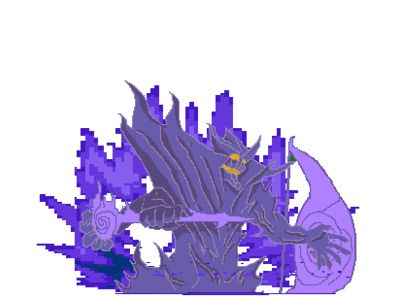
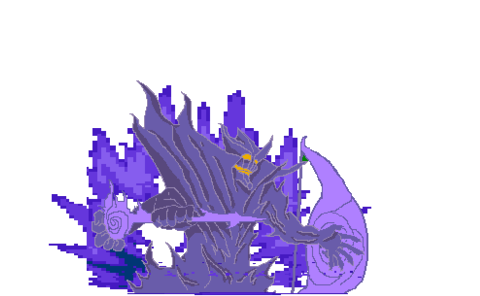
佐助搞定

Changed region(s): [[0.0907, 0.2736, 0.9068, 1.0]]

diff --git a/fight/saske_style.py b/fight/saske_style.py
@@ -25,56 +25,82 @@ class SaskeStyle(Style):
     def saske_status_to_up_ti(self):
         self.change_to_status('向上一脚')
         
-    def __init__(self, sprite_group):
+    def __init__(self, sprite_group, situation_flag = 1):
         self.sprite_group = sprite_group
         self.character = {}
-        saske_image_url = ['saske/倒在地上', 'saske/挥刀',
-                            'saske/挥两刀', 'saske/挥拳',
-                            'saske/向上一脚', 'saske/idle',
-                            'saske/run','saske/后仰', 'saske/站起来',
-                            'saske/开篇挥手']
+        if situation_flag == 1:
+            saske_image_url = ['saske/倒在地上', 'saske/挥刀',
+                                'saske/挥两刀', 'saske/挥拳',
+                                'saske/向上一脚', 'saske/idle',
+                                'saske/run','saske/后仰', 'saske/站起来',
+                                'saske/开篇挥手']
+        elif situation_flag == 2:
+            saske_image_url = ['saske/须左']
+        elif situation_flag == 3:
+            saske_image_url = ['saske/须左的箭']
+        elif situation_flag == 4:
+            saske_image_url = ['saske/写轮眼']
         for i in range(len(saske_image_url)):
             print('saske_image_url[i]:' + saske_image_url[i])
             self.add_sprite(saske_image_url[i], need_flip = True)
             
-        self.character["saske/run"].append_update_function(self.update_run) 
-        self.character["saske/倒在地上"].append_update_function(self.update_fall_down) 
-        self.character["saske/倒在地上"].append_end_update_function(self.saske_status_to_qilai) 
-        self.character["saske/倒在地上"].set_frame_rate(8)
+        if situation_flag == 1:
+            self.character["saske/run"].append_update_function(self.update_run) 
+            self.character["saske/倒在地上"].append_update_function(self.update_fall_down) 
+            self.character["saske/倒在地上"].append_end_update_function(self.saske_status_to_qilai) 
+            self.character["saske/倒在地上"].set_frame_rate(8)
+            
+            self.character["saske/站起来"].append_end_update_function(self.saske_status_to_idle)
+            self.character["saske/站起来"].set_frame_rate(8)
+            
+            self.character["saske/挥刀"].append_end_update_function(self.saske_status_to_huiquan)
+            self.character["saske/挥刀"].set_frame_rate(8)
+            self.character["saske/挥拳"].append_end_update_function(self.saske_status_to_huiliangdao)
+            self.character["saske/挥拳"].set_frame_rate(8)
+            self.character["saske/挥两刀"].append_end_update_function(self.saske_status_to_up_ti)
+            self.character["saske/挥两刀"].set_frame_rate(8)
+            self.character["saske/向上一脚"].append_end_update_function(self.saske_status_to_idle)
+            self.character["saske/向上一脚"].set_frame_rate(8)
         
-        self.character["saske/站起来"].append_end_update_function(self.saske_status_to_idle)
-        self.character["saske/站起来"].set_frame_rate(8)
+            #这个后仰的是一直存在于sprite_group里面的，所以以后你要切换人物，一定要把后仰删掉，而不是单单删除current_sprite
+            self.character["saske/后仰"].set_image_update_bounce(False)
+            self.sprite_group.add(self.character["saske/后仰"])   #self.character["saske/后仰"].hidden = False  如果这个后仰设置为True则会一直卡在第一张图片
+            self.character["saske/后仰"].set_top_padding(1000)
+            self.character["saske/后仰"].append_end_update_function(self.hou_yang_end_update_handle)
+            self.character["saske/后仰"].set_frame_rate(8)
         
-        self.character["saske/挥刀"].append_end_update_function(self.saske_status_to_huiquan)
-        self.character["saske/挥刀"].set_frame_rate(8)
-        self.character["saske/挥拳"].append_end_update_function(self.saske_status_to_huiliangdao)
-        self.character["saske/挥拳"].set_frame_rate(8)
-        self.character["saske/挥两刀"].append_end_update_function(self.saske_status_to_up_ti)
-        self.character["saske/挥两刀"].set_frame_rate(8)
-        self.character["saske/向上一脚"].append_end_update_function(self.saske_status_to_idle)
-        self.character["saske/向上一脚"].set_frame_rate(8)
+            #self.sprite_group.add(self.character["saske/idle"])
+            self.current_sprite = self.character["saske/idle"]
+            self.status = 'idle'
         
-        #这个后仰的是一直存在于sprite_group里面的，所以以后你要切换人物，一定要把后仰删掉，而不是单单删除current_sprite
-        self.character["saske/后仰"].set_image_update_bounce(False)
-        self.sprite_group.add(self.character["saske/后仰"])   #self.character["saske/后仰"].hidden = False  如果这个后仰设置为True则会一直卡在第一张图片
-        self.character["saske/后仰"].set_top_padding(1000)
-        self.character["saske/后仰"].append_end_update_function(self.hou_yang_end_update_handle)
-        self.character["saske/后仰"].set_frame_rate(8)
-        
-        #self.sprite_group.add(self.character["saske/idle"])
-        self.current_sprite = self.character["saske/idle"]
-        self.status = 'idle'
+            self.start_left_padding = GameCommonData.WIDTH - 160
+            self.current_sprite.set_left_padding(self.start_left_padding)
+            self.current_sprite.set_top_padding(GameCommonData.character_level)
+            self.character["saske/开篇挥手"].set_frame_rate(8)
+        elif situation_flag == 2:
+            self.sprite_group.add(self.character["saske/须左"])
+            self.current_sprite = self.character["saske/须左"]
+            self.character["saske/须左"].set_frame_rate(5)
+        elif situation_flag == 3:
+            self.sprite_group.add(self.character["saske/须左的箭"])
+            self.current_sprite = self.character["saske/须左的箭"]
+            self.character["saske/须左的箭"].set_frame_rate(8)
+        elif situation_flag == 4:
+            self.sprite_group.add(self.character["saske/写轮眼"])
+            self.current_sprite = self.character["saske/写轮眼"]
+            self.character["saske/写轮眼"].set_frame_rate(8)
+            
         self.current_sprite.hidden = False
-        
-        
-        self.start_left_padding = GameCommonData.WIDTH - 160
-        self.current_sprite.set_left_padding(self.start_left_padding)
-        self.current_sprite.set_top_padding(GameCommonData.character_level)
-        
-
-        self.character["saske/开篇挥手"].set_frame_rate(8)
-        
         self.fall_down_interval = 0
+    
+    def remove_current_sprite(self):
+        self.sprite_group.remove_internal(self.current_sprite)
+    
+    def set_left_padding(self, left_padding):
+        self.current_sprite.set_left_padding(left_padding)
+        
+    def set_top_padding(self, top_padding):
+        self.current_sprite.set_top_padding(top_padding)
     
     def change_to_houyang(self):
         if not self.status == '后仰':

diff --git a/fight/logic_controller.py b/fight/logic_controller.py
@@ -99,15 +99,59 @@ class Controller():
         self.add_fenshen_to_group()
         self.naruto_style.change_to_status('结印')
     #鸣人特效##############################################################################################
+    
+    
+    #佐助特效##############################################################################################
+    def xuzuo_jian_update(self, image_index):
+        left_padding = self.saske_xuzuo_jian.character['saske/须左的箭'].get_left_padding()
+        if left_padding - self.naruto_style.get_left_padding() < 30:
+            self.saske_xuzuo_jian.remove_current_sprite()
+            self.naruto_style.change_to_status('death')
+            self.saske_xuzuo.character['saske/须左'].clear_update_function()
+            #self.saske_xuzuo_jian.character['saske/须左的箭'].image_index = 14
+        else:
+            self.saske_xuzuo_jian.character['saske/须左的箭'].set_left_padding(left_padding - 120)
+    
+    def xuzuo_update(self, image_index):
+        if image_index == 12:
+            self.saske_xuzuo_jian = SaskeStyle(self.sprite_group, situation_flag = 3)
+            self.saske_xuzuo_jian.set_left_padding(self.saske_style.get_left_padding() - 200)
+            self.saske_xuzuo_jian.set_top_padding(self.saske_style.get_top_padding() - 30)
+            self.saske_xuzuo_jian.character['saske/须左的箭'].append_update_function(self.xuzuo_jian_update)
+        elif image_index == 14:
+            self.saske_xuzuo.character['saske/须左'].image_index = 13
             
-    #佐助特效##############################################################################################
     def xu_zuo(self):
-        return
+        self.saske_xielunyan.remove_current_sprite()
+        self.saske_xuzuo = SaskeStyle(self.sprite_group, situation_flag = 2)
+        self.saske_xuzuo.set_left_padding(self.saske_style.get_left_padding())
+        self.saske_xuzuo.set_top_padding(self.saske_style.get_top_padding() + 20)
+        self.saske_xuzuo.character['saske/须左'].append_update_function(self.xuzuo_update)
+        self.saske_xuzuo.character['saske/须左'].append_end_update_function(self.saske_xuzuo.remove_current_sprite)
+        
+    def xie_lun_yan(self):
+        self.saske_xielunyan = SaskeStyle(self.sprite_group, situation_flag = 4)
+        self.saske_xielunyan.set_left_padding(self.saske_style.get_left_padding() - 40)
+        self.saske_xielunyan.set_top_padding(self.saske_style.get_top_padding() - 40)
+        self.saske_xielunyan.character['saske/写轮眼'].append_end_update_function(self.xu_zuo)
     #佐助特效##############################################################################################
+    
+    
+    #我爱罗特效##############################################################################################
+    def songzang(self):
+        print('送葬')
+        
+    def add_wo_ai_luo(self):
+        print('我爱罗')
+    #我爱罗特效##############################################################################################
     
     def handle_key_event(self):
         if self.key_controller.key_m:
             self.chu_fa_fen_shen()
+        elif self.key_controller.key_w:
+            self.xie_lun_yan()
+        elif self.key_controller.key_a:
+            self.add_wo_ai_luo()
         elif self.key_controller.key_s:
             self.change_to_status('naruto/idle')
     
@@ -158,7 +202,7 @@ class Controller():
             #需要用到跳帧的类可以声明一个这样的对象，这样子就可以Sleep(3000)来实现跳帧,里面会记录下来，再次执行到这里不会追加Sleep时间
             #self.saske_style.change_to_status('站起来')
             self.handle_key_event()
-
+            return True
             if self.insert_action_num == 0 and self.sleep(3000):
                 #self.saske_style.change_to_status('站起来')
                 self.naruto_style.change_to_status('run')
@@ -207,8 +251,13 @@ class Controller():
     def start(self):
         if self.naruto_style.status == 'idle' and self.saske_style.status == 'idle':
             if self.sleep(1000):
-                self.naruto_style.change_to_status('色诱之术')
-                self.saske_style.change_to_status('开篇挥手')
+                #self.naruto_style.change_to_status('色诱之术')
+                #self.saske_style.change_to_status('开篇挥手')
+                
+                #手动添加一下，下面这些函数以后是要删除掉的
+                self.naruto_end_update_seyouzhishu()
+                self.saske_end_update_kai_pian_hui_shou()
+                
                 self.naruto_style.append_end_update_seyouzhishu(self.naruto_end_update_seyouzhishu)
                 self.saske_style.append_end_update_kai_pian_hui_shou(self.saske_end_update_kai_pian_hui_shou)
     

diff --git a/fight/cut_pictrue.py b/fight/cut_pictrue.py
@@ -291,4 +291,62 @@ def add_pix_to_white():
         img_temp.convert("RGBA")
         img_temp.save(output_dir + "/" + filename)
         
-add_pix_to_white()
+#add_pix_to_white()
+
+input_dir = prefix_dir + '佐助长大了/添加到白板的图'
+output_dir = prefix_dir + '佐助长大了/对称中心添加图片'
+def cut_off_white_left_padding():
+    #给每一个图片设置一个中心线， 以中心线为基准进行图片刷到白板上的操作，每一张原图都有自己的中心线
+    #列表的前面5个是还没有成型的须左，中轴线保持和第六个须左一致
+    left_padding = [220, 220, 220, 220, 220, 220, 226, 223, 228, 233, 214, 210, 150, 210]
+    
+    img = Image.open(input_dir + "/531.png")   #150是最小的
+    width_img = img.size[0] + 83 # 宽度-最小左边距=最大右边距   最大左边距即为最大左边  两者相加是最终的宽度
+    cropped = img.crop((0, 0, width_img, img.size[1]))
+    for i in range(cropped.size[0]):
+        for j in range(cropped.size[1]):
+            cropped.putpixel((i, j), (255, 255, 255, 255))
+    
+    index_padding = 0
+    for filename in os.listdir(input_dir):
+        img = Image.open(input_dir + "/" + filename)
+        img_temp =  cropped.copy()
+        for i in range(img.size[0]):
+            for j in range(img.size[1]):
+                data = img.getpixel((i, j))
+                if int(img_temp.size[0]/2) - left_padding[index_padding] + i < img_temp.size[0]:
+                    img_temp.putpixel(( int(img_temp.size[0]/2) - left_padding[index_padding] + i, j), (data[0], data[1], data[2], data[3]))
+        index_padding = index_padding + 1
+        img_temp.save(output_dir + "/" + filename)
+
+input_dir = prefix_dir + '佐助长大了/添加到白板的图'
+output_dir = prefix_dir + '佐助长大了/对称中心添加图片'
+def resize_pic():
+    for filename in os.listdir(input_dir):
+        img = Image.open(input_dir + "/" + filename)
+        out = img.resize((int(img.size[0]/3), int(img.size[1]/2)))
+        out.save(output_dir + "/" + filename)
+
+#resize_pic()
+input_dir = prefix_dir + '佐助长大了/写轮眼'
+output_dir = prefix_dir + '佐助长大了/写轮眼处理'
+def change_to_transparent():
+    color_set = set()
+    for filename in os.listdir(input_dir):
+        img = Image.open(input_dir + "/" + filename)
+        for i in range(img.size[0]):
+            for j in range(img.size[1]):
+                data = img.getpixel((i, j))
+                if data[0] == 0 and data[1] == 0 and data[2] == 0 and data[3] == 0:
+                    img.putpixel((i, j), (255,255,255,255))
+                if i == 35 and j == 17 and filename == '345.png':
+                    print(i,j,data[0], data[1], data[2], data[3])
+                if i == 1 and j == 1 and filename == '345.png':
+                    print(i,j,data[0], data[1], data[2], data[3])
+                #   print(i,j,data[0], data[1], data[2], data[3])
+        img.save(output_dir + "/" + filename)
+                
+    #for item in color_set:
+    #    print(item)
+        
+change_to_transparent()

diff --git a/fight/nanuto_style.py b/fight/nanuto_style.py
@@ -51,10 +51,10 @@ class NarutoStyle(Style):
                             "naruto/挥拳", "naruto/举螺旋丸", "naruto/空中一脚", "naruto/螺旋丸", "naruto/螺旋丸击中",
                             "naruto/扔手里剑", "naruto/色诱之术", "naruto/下按螺旋丸", "naruto/向上一脚",
                             "naruto/用头打", "naruto/云朵", "naruto/风遁螺旋丸", "naruto/风遁螺旋丸爆炸", "naruto/一个分身", "naruto/结印"]
-        '''
+        
         naruto_image_url = ["naruto/multi_shadow_separation", "naruto/idle", "naruto/death", "naruto/run", "naruto/挥拳"
                             , "naruto/用头打", "naruto/反脚踢", "naruto/后仰", "naruto/翻身起来", "naruto/色诱之术", "naruto/一个分身",
-                            "naruto/结印"]
+                            "naruto/结印"]'''
         
         if situation_flag == 1:
             naruto_image_url = ["naruto/multi_shadow_separation", "naruto/idle", "naruto/death", "naruto/run", "naruto/挥拳"

diff --git a/fight/resource_load.py b/fight/resource_load.py
@@ -244,6 +244,9 @@ class CharacterSprite(pygame.sprite.Sprite):
         self.end_update_function.append(func)
         return len(self.end_update_function) - 1
 
+    def clear_update_function(self):
+        self.update_function.clear()
+
     def clear_end_update_function(self):
         self.end_update_function.clear()
 
